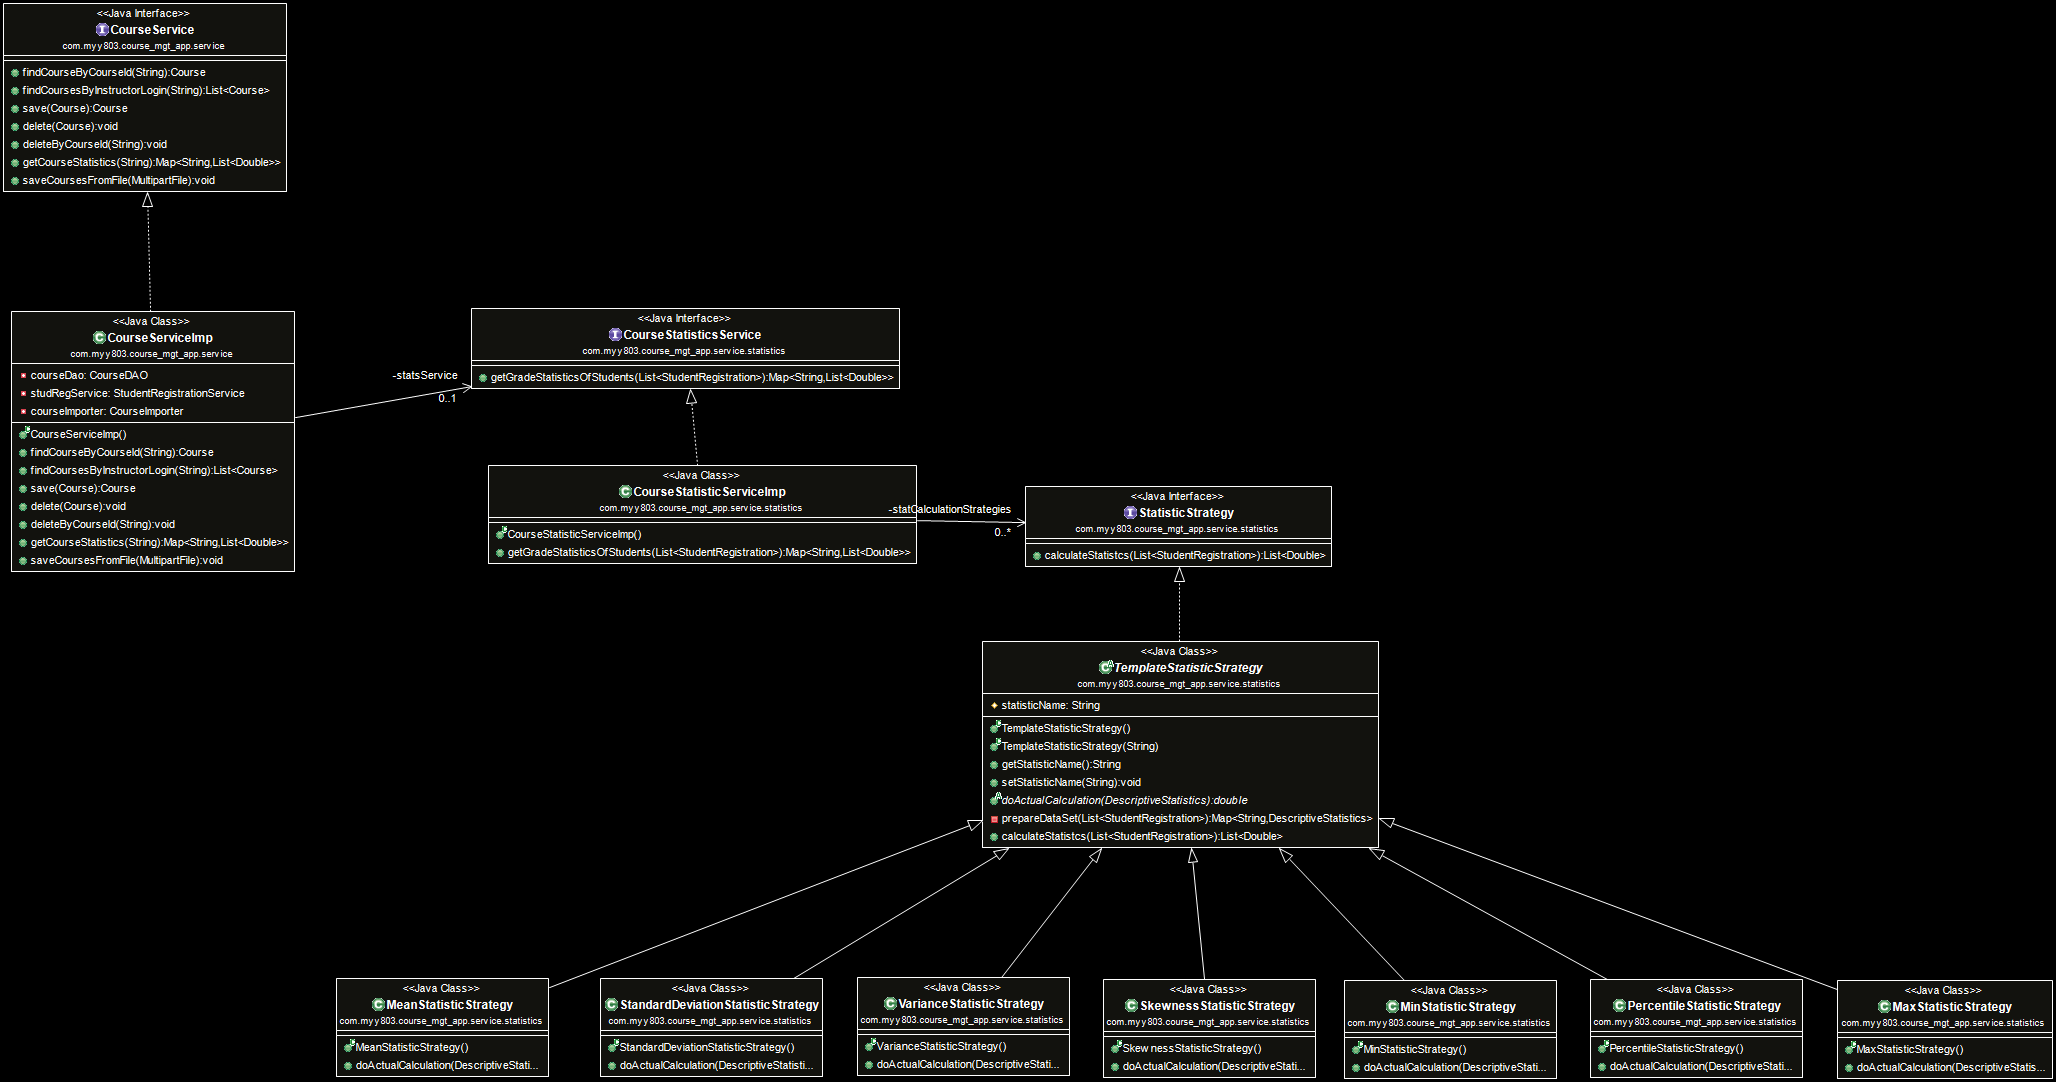
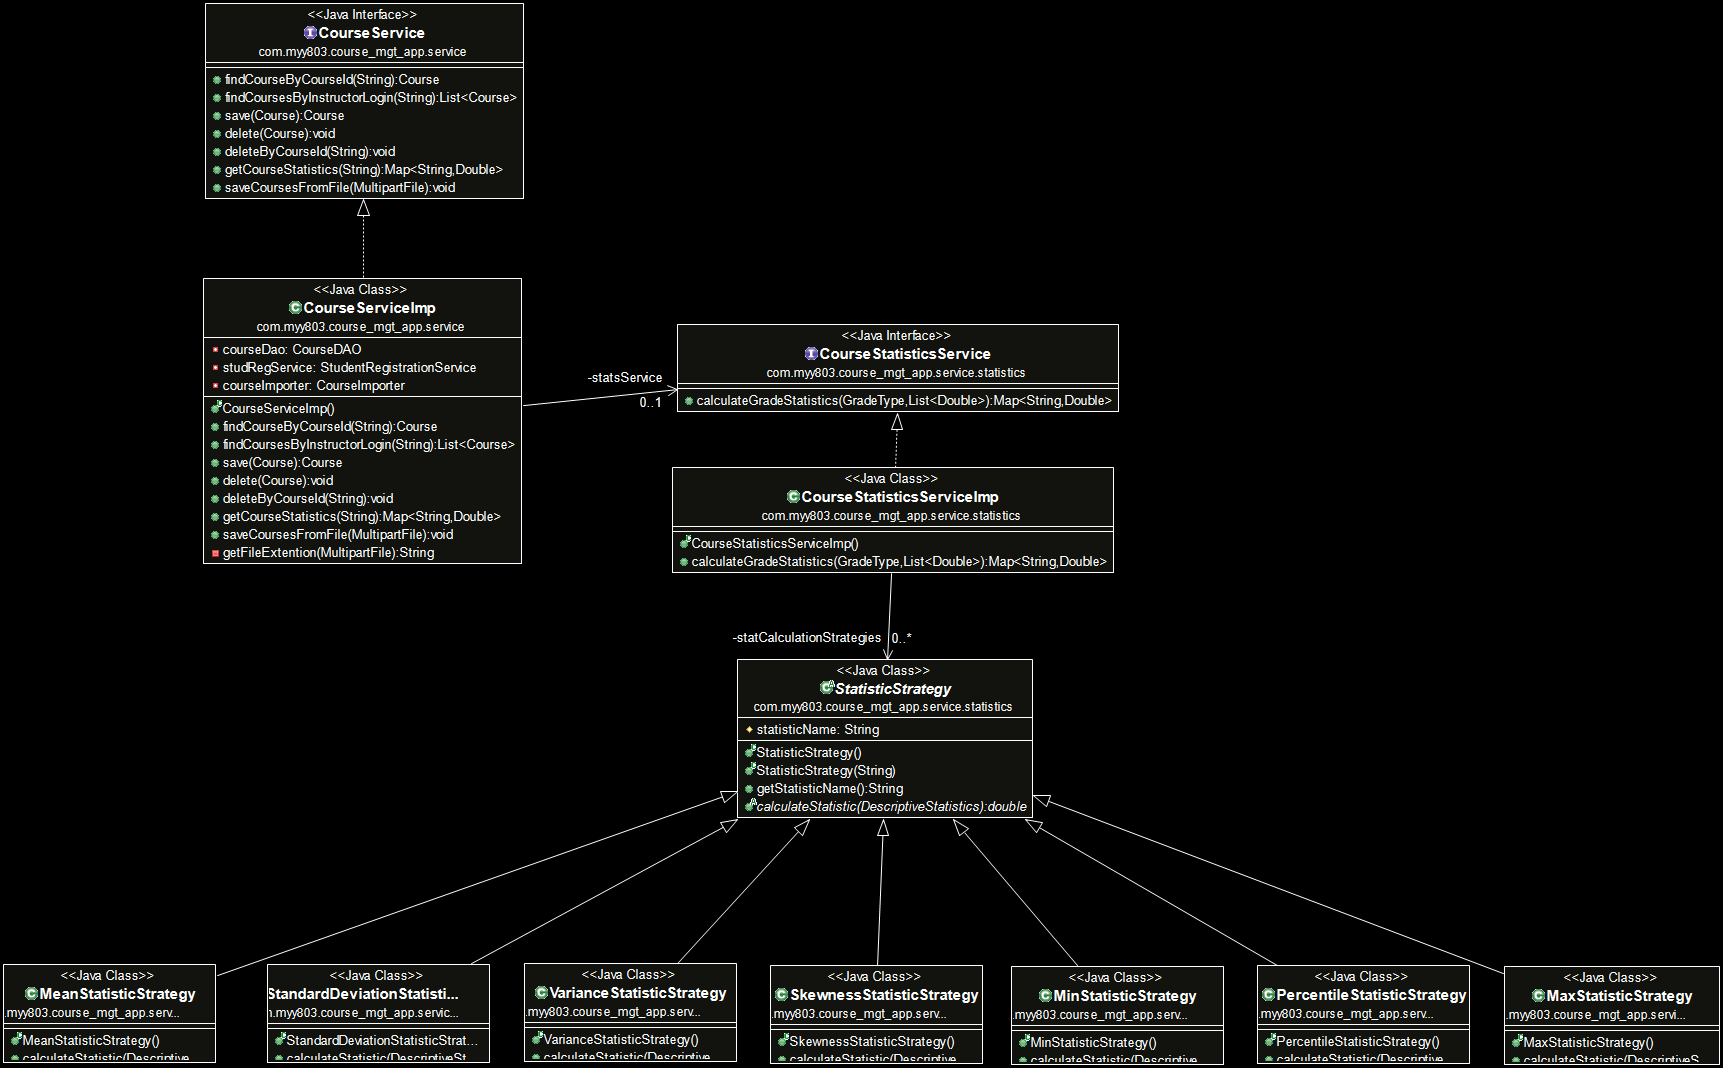
Remove the TemplateStatisticStrategy for enhanced performance and simplified design
Eliminate TemplateMethod by moving its only shared step (prepareDataset) to CourseStatisticsService. This change allows for the sharing of a single DescriptiveStatistic object (the prepared dataset - that does the stats calculations) among all StatisticStrategy instances and leads to improved performance and simplified design.

diff --git a/src/main/java/com/myy803/course_mgt_app/service/statistics/CourseStatisticsServiceImp.java b/src/main/java/com/myy803/course_mgt_app/service/statistics/CourseStatisticsServiceImp.java
@@ -4,6 +4,7 @@ import java.util.HashMap;
 import java.util.List;
 import java.util.Map;
 
+import org.apache.commons.math3.stat.descriptive.DescriptiveStatistics;
 import org.springframework.beans.factory.annotation.Autowired;
 import org.springframework.stereotype.Service;
 
@@ -17,13 +18,27 @@ public class CourseStatisticsServiceImp implements CourseStatisticsService {
 	
 	@Override
 	public Map<String, Double> calculateGradeStatistics(GradeType gradeType, List<Double> grades) {
-		Map<String, Double> mapCalcs = new HashMap<String, Double>();
+		Map<String, Double> calculatedStatistics = new HashMap<String, Double>();
+		DescriptiveStatistics ds = prepareDataset(grades);
 		for (StatisticStrategy statStrat : statCalculationStrategies) {
-			String stratName = ((TemplateStatisticStrategy) statStrat).getStatisticName();
-			Double stat = statStrat.calculateStatistic(grades);
-			mapCalcs.put(gradeType+stratName, stat);
+			String stratName = statStrat.getStatisticName();			
+			Double stat = statStrat.calculateStatistic(ds);
+			String statMapKey = createStatMapKey(gradeType, stratName);
+			calculatedStatistics.put(statMapKey, stat);
 		}
-		return mapCalcs;
+		return calculatedStatistics;
+	}
+
+	private DescriptiveStatistics prepareDataset(List<Double> grades) {
+		DescriptiveStatistics ds = new DescriptiveStatistics();
+		for (Double grade : grades) {
+			ds.addValue(grade);			
+		}
+		return ds;
+	}
+	
+	private String createStatMapKey(GradeType gradeType, String stratName) {
+		return gradeType+stratName;
 	}
 	
 }

diff --git a/src/main/java/com/myy803/course_mgt_app/service/statistics/StatisticStrategy.java b/src/main/java/com/myy803/course_mgt_app/service/statistics/StatisticStrategy.java
@@ -1,9 +1,22 @@
 package com.myy803.course_mgt_app.service.statistics;
 
-import java.util.List;
+import org.apache.commons.math3.stat.descriptive.DescriptiveStatistics;
 
-public interface StatisticStrategy {
+public abstract class StatisticStrategy {
+	
+	protected String statisticName; 
+	
+	public StatisticStrategy() {}
+	
+	public StatisticStrategy(String statisticName) {
+		super();
+		this.statisticName = statisticName;
+	}
 
-	Double calculateStatistic(List<Double> grades);
+	public String getStatisticName() {
+		return statisticName;
+	}
+	
+	abstract public double calculateStatistic(DescriptiveStatistics ds);
 
 }

diff --git a/src/main/java/com/myy803/course_mgt_app/service/statistics/StandardDeviationStatisticStrategy.java b/src/main/java/com/myy803/course_mgt_app/service/statistics/StandardDeviationStatisticStrategy.java
@@ -4,14 +4,14 @@ import org.apache.commons.math3.stat.descriptive.DescriptiveStatistics;
 import org.springframework.stereotype.Component;
 
 @Component
-public class StandardDeviationStatisticStrategy extends TemplateStatisticStrategy {
+public class StandardDeviationStatisticStrategy extends StatisticStrategy {
 
 	public StandardDeviationStatisticStrategy() {
 		super("StandardDeviation");	// name of the statistic
 	}
 
 	@Override
-	public double doActualCalculation(DescriptiveStatistics ds) {
+	public double calculateStatistic(DescriptiveStatistics ds) {
 		return ds.getStandardDeviation();
 	}
 	

diff --git a/src/main/java/com/myy803/course_mgt_app/service/statistics/SkewnessStatisticStrategy.java b/src/main/java/com/myy803/course_mgt_app/service/statistics/SkewnessStatisticStrategy.java
@@ -5,14 +5,14 @@ import org.apache.commons.math3.stat.descriptive.DescriptiveStatistics;
 import org.springframework.stereotype.Component;
 
 @Component
-public class SkewnessStatisticStrategy extends TemplateStatisticStrategy{
+public class SkewnessStatisticStrategy extends StatisticStrategy{
 
 	public SkewnessStatisticStrategy() {
 		super("Skewness");	// name of the statistic
 	}
 	
 	@Override
-	public double doActualCalculation(DescriptiveStatistics ds) {
+	public double calculateStatistic(DescriptiveStatistics ds) {
 		return ds.getSkewness();
 	}
 

diff --git a/src/main/java/com/myy803/course_mgt_app/service/statistics/VarianceStatisticStrategy.java b/src/main/java/com/myy803/course_mgt_app/service/statistics/VarianceStatisticStrategy.java
@@ -4,14 +4,14 @@ import org.apache.commons.math3.stat.descriptive.DescriptiveStatistics;
 import org.springframework.stereotype.Component;
 
 @Component
-public class VarianceStatisticStrategy extends TemplateStatisticStrategy{
+public class VarianceStatisticStrategy extends StatisticStrategy{
 	
 	public VarianceStatisticStrategy() {
 		super("Variance");	// name of the statistic
 	}
 
 	@Override
-	public double doActualCalculation(DescriptiveStatistics ds) {
+	public double calculateStatistic(DescriptiveStatistics ds) {
 		return ds.getVariance();
 	}
 

diff --git a/src/main/java/com/myy803/course_mgt_app/service/statistics/PercentileStatisticStrategy.java b/src/main/java/com/myy803/course_mgt_app/service/statistics/PercentileStatisticStrategy.java
@@ -4,14 +4,14 @@ import org.apache.commons.math3.stat.descriptive.DescriptiveStatistics;
 import org.springframework.stereotype.Component;
 
 @Component
-public class PercentileStatisticStrategy extends TemplateStatisticStrategy{
+public class PercentileStatisticStrategy extends StatisticStrategy{
 
 	public PercentileStatisticStrategy() {
 		super("Percentile");
 	}
 
 	@Override
-	public double doActualCalculation(DescriptiveStatistics ds) {
+	public double calculateStatistic(DescriptiveStatistics ds) {
 		return ds.getPercentile(50);
 	}
 

diff --git a/src/main/java/com/myy803/course_mgt_app/service/statistics/MeanStatisticStrategy.java b/src/main/java/com/myy803/course_mgt_app/service/statistics/MeanStatisticStrategy.java
@@ -4,14 +4,14 @@ import org.apache.commons.math3.stat.descriptive.DescriptiveStatistics;
 import org.springframework.stereotype.Component;
 
 @Component
-public class MeanStatisticStrategy extends TemplateStatisticStrategy{
+public class MeanStatisticStrategy extends StatisticStrategy{
 	
 	public MeanStatisticStrategy() {
 		super("Mean");	// name of the statistic
 	}
 
 	@Override
-	public double doActualCalculation(DescriptiveStatistics ds) {
+	public double calculateStatistic(DescriptiveStatistics ds) {
 		return ds.getMean();
 	}
 

diff --git a/src/main/java/com/myy803/course_mgt_app/service/statistics/MaxStatisticStrategy.java b/src/main/java/com/myy803/course_mgt_app/service/statistics/MaxStatisticStrategy.java
@@ -4,14 +4,14 @@ import org.apache.commons.math3.stat.descriptive.DescriptiveStatistics;
 import org.springframework.stereotype.Component;
 
 @Component
-public class MaxStatisticStrategy extends TemplateStatisticStrategy{
+public class MaxStatisticStrategy extends StatisticStrategy{
 
 	public MaxStatisticStrategy() {
 		super("Max");	// set name of the statistic
 	}
 
 	@Override
-	public double doActualCalculation(DescriptiveStatistics ds) {
+	public double calculateStatistic(DescriptiveStatistics ds) {
 		return ds.getMax();
 	}
 

diff --git a/src/main/java/com/myy803/course_mgt_app/service/statistics/MinStatisticStrategy.java b/src/main/java/com/myy803/course_mgt_app/service/statistics/MinStatisticStrategy.java
@@ -4,14 +4,14 @@ import org.apache.commons.math3.stat.descriptive.DescriptiveStatistics;
 import org.springframework.stereotype.Component;
 
 @Component
-public class MinStatisticStrategy extends TemplateStatisticStrategy{
+public class MinStatisticStrategy extends StatisticStrategy{
 	
 	public MinStatisticStrategy() {
 		super("Min");
 	}
 
 	@Override
-	public double doActualCalculation(DescriptiveStatistics ds) {
+	public double calculateStatistic(DescriptiveStatistics ds) {
 		return ds.getMin();
 	}
 
